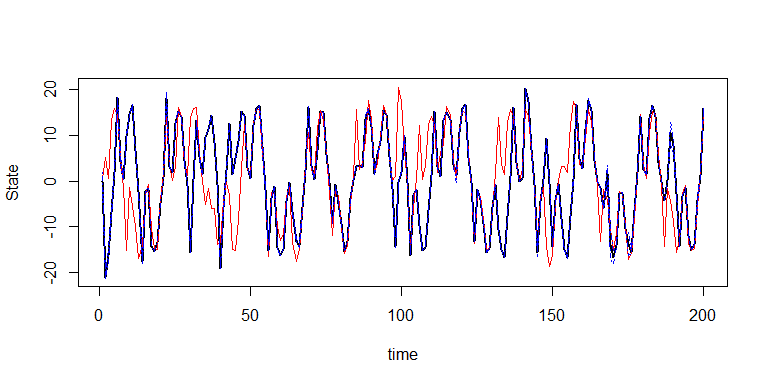
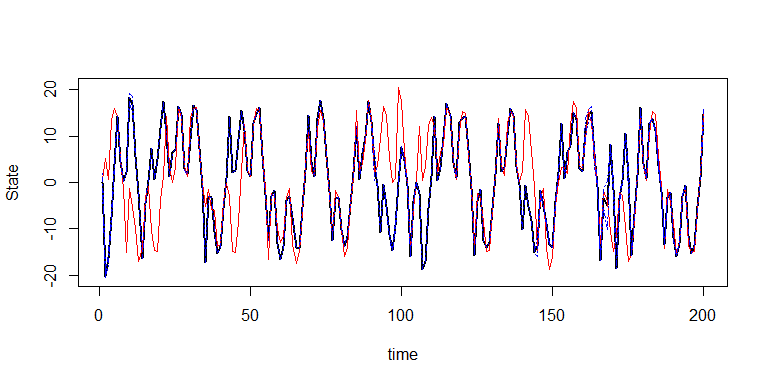
updated chunk

diff --git a/README.md b/README.md
@@ -137,7 +137,7 @@ smc.sis <- function(Tbig,M,y)
 ```
 
 ``` r
-sis.est.theta <- smc.sis(200,3000,sim.y)
+sis.est.theta <- smc.sis(200,500,sim.y)
 theta.mean <- sis.est.theta$mu
 theta.var <- sis.est.theta$sigma2
 
@@ -238,7 +238,7 @@ smc.apf <- function(Tbig,M,y)
 ```
 
 ``` r
-apf.est.theta <- smc.apf(200,3000,sim.y)
+apf.est.theta <- smc.apf(200,500,sim.y)
 apf.theta.mean <- apf.est.theta$mu
 apf.theta.var <- apf.est.theta$sigma2
 
